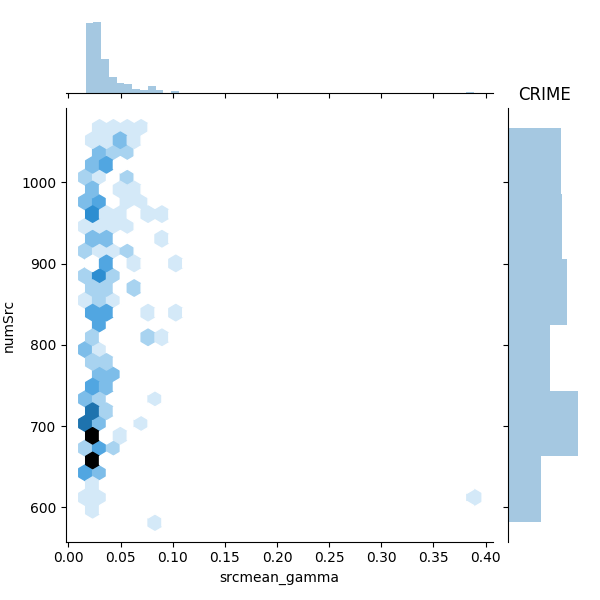
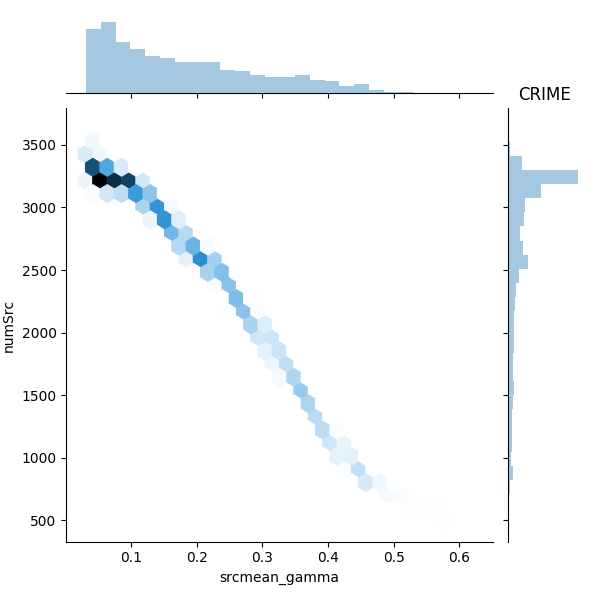
plots

diff --git a/complexity_analysis/plotter.py b/complexity_analysis/plotter.py
@@ -3,7 +3,7 @@ import pandas as pd
 import numpy as np
 import matplotlib.pyplot as plt
 
-df = pd.read_csv('TA1Agamma_plots.csv')
+df = pd.read_csv('CRIMEgamma_plots.csv')
 
 
 sns.axes_style("white")
@@ -21,7 +21,7 @@ ax=sns.jointplot(x='gamma',y='ct',data=df2,kind='kde',xlim=[0,0.03])
 plt.show()
 '''
 
-'''
+
 ax = sns.jointplot(y="numSrc", x="srcmean_gamma", data=df,kind='hex')
 plt.title(PREF)
 
@@ -45,7 +45,7 @@ plt.title(PREF)
 
 plt.savefig(PREF +'med_gammahex2.png')
 plt.figure()
-'''
+
 
 PREF = 'CRIME'
 ax = sns.scatterplot(y="numSrc", x="srcmean_gamma", data=df)
